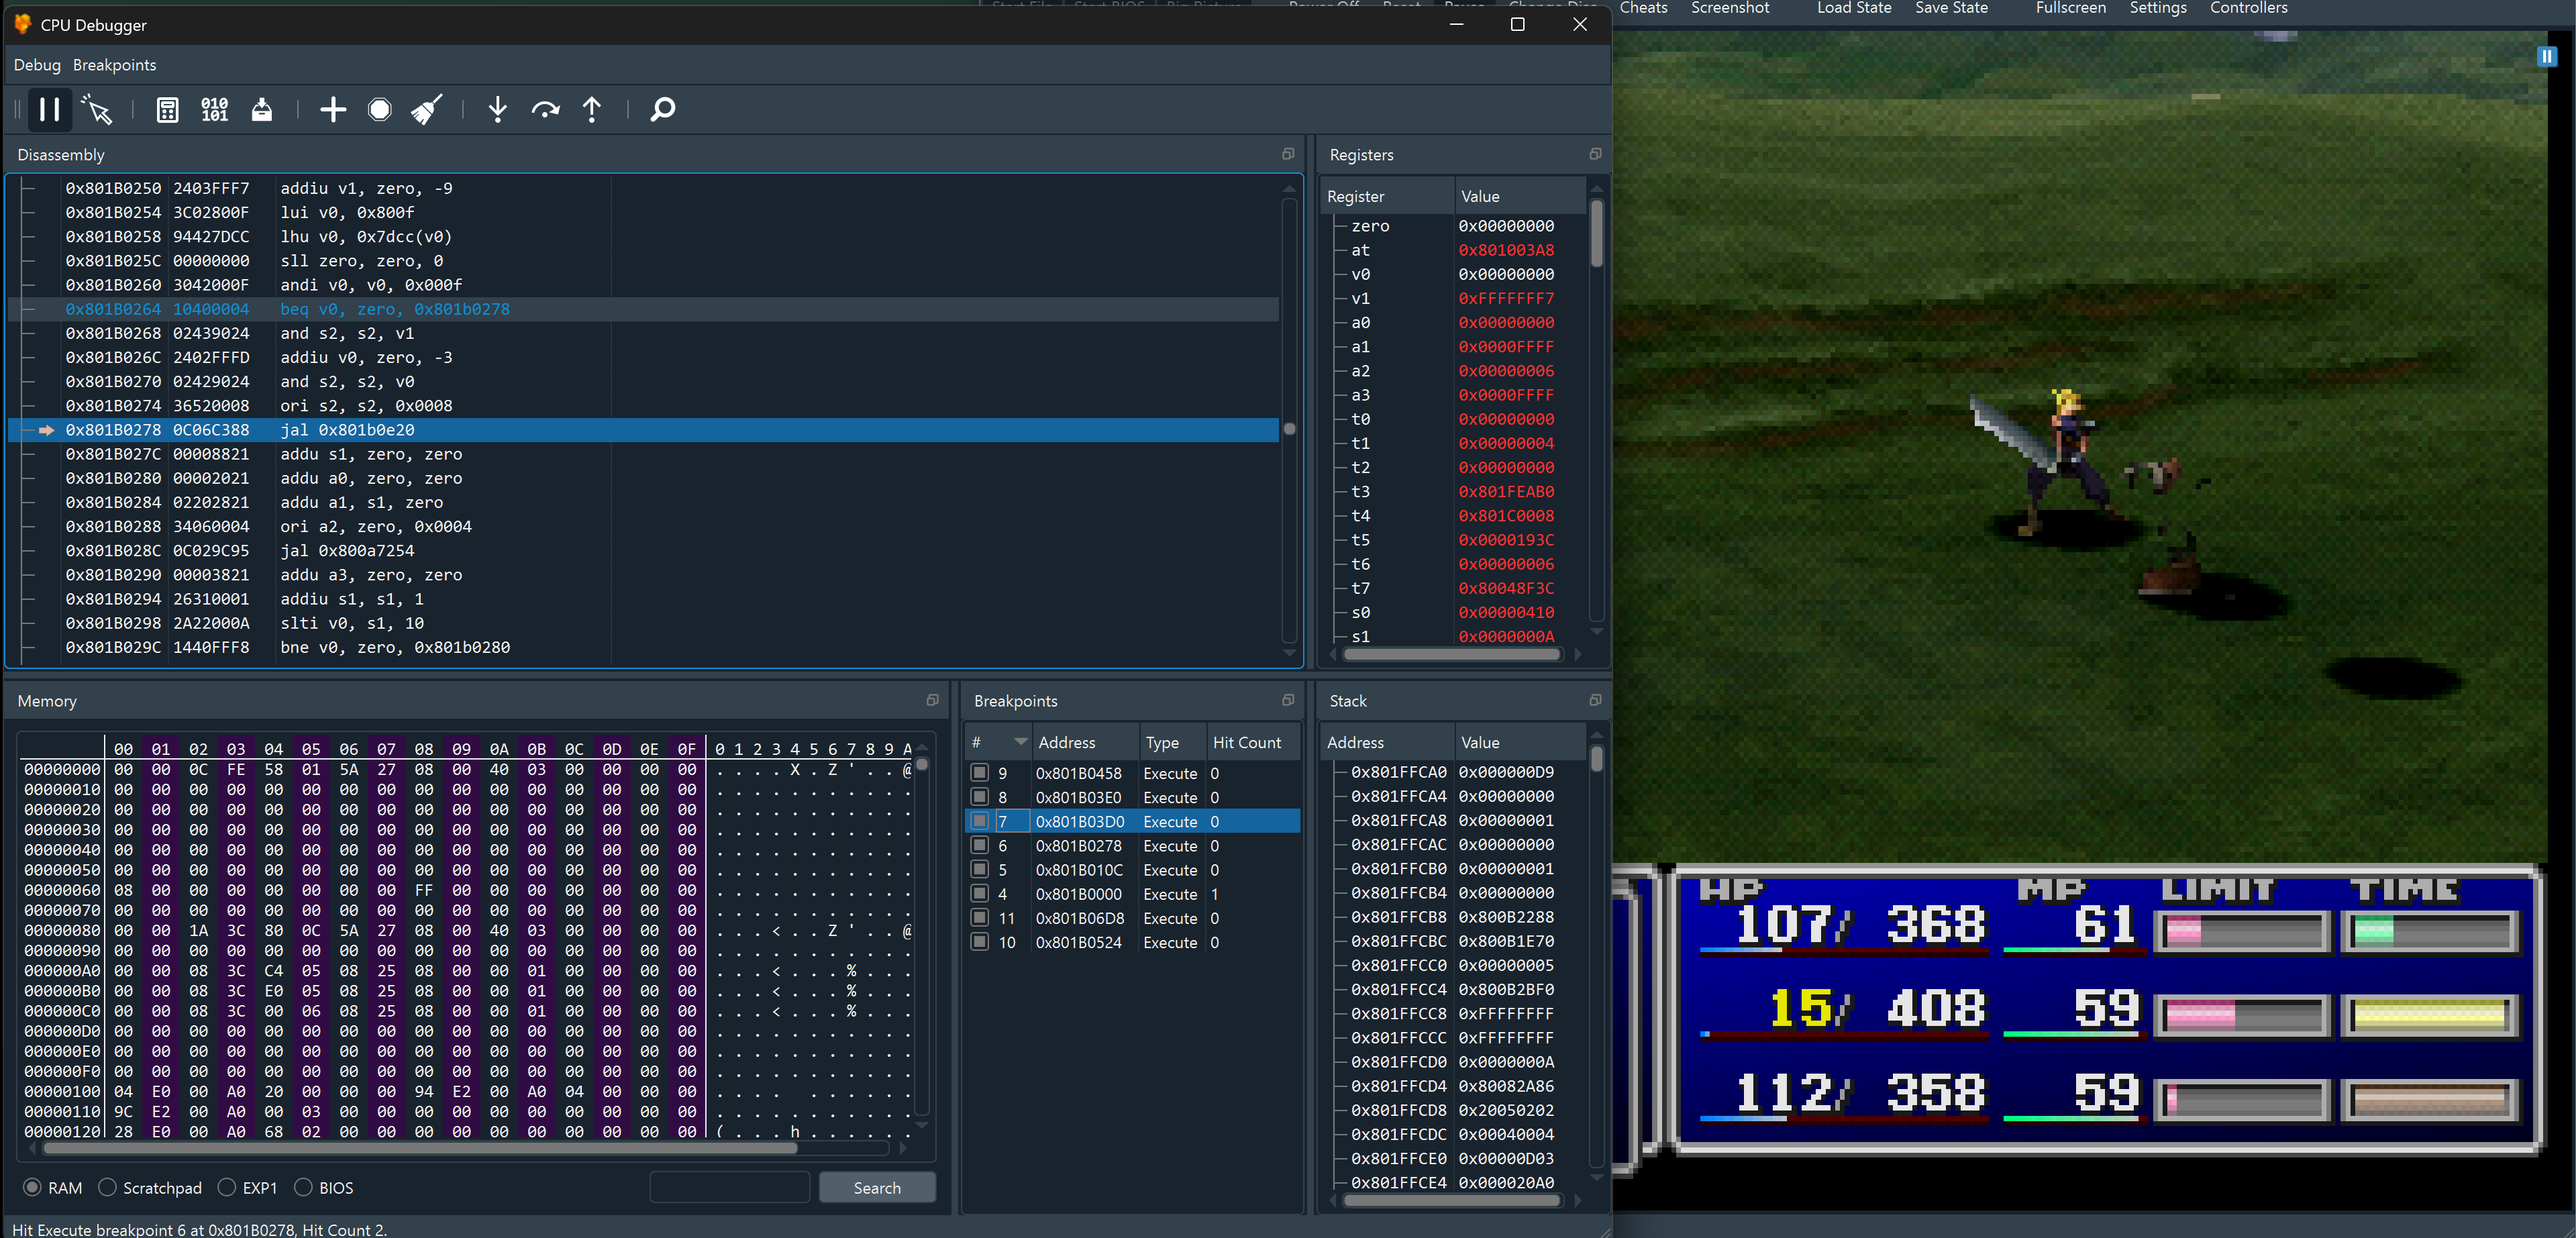
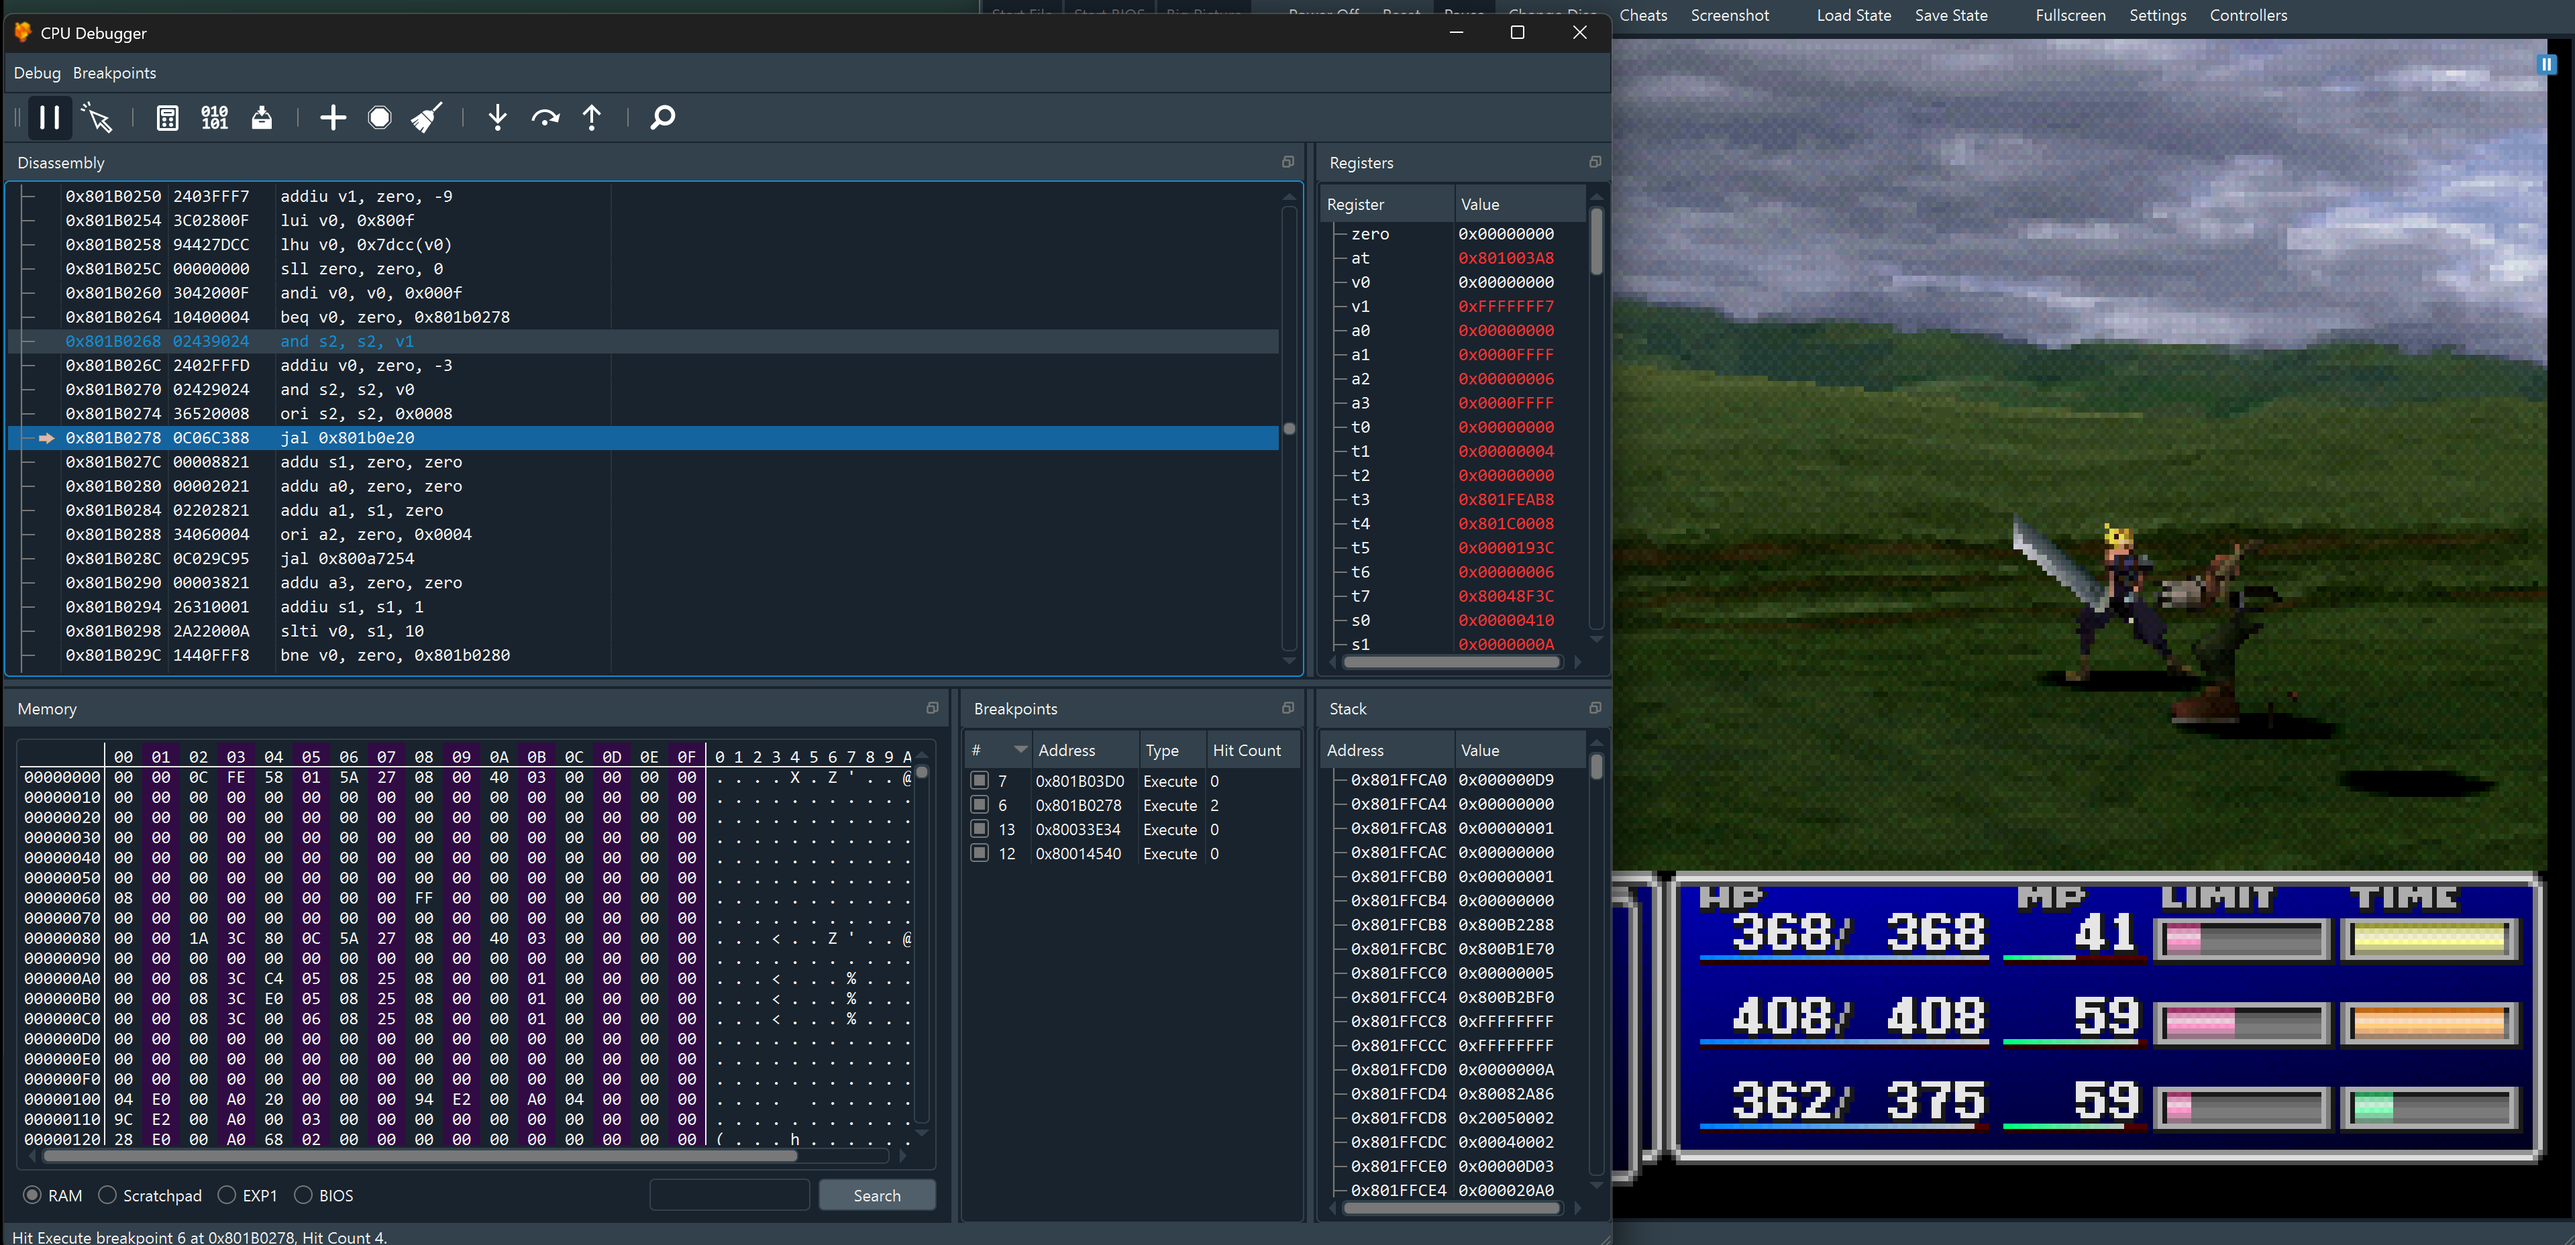
updates

Changed region(s): [[0.0, 0.0, 1.0, 1.0], [0.9922, 0.9886, 1.0, 1.0], [0.3101, 0.7724, 0.3411, 0.8033]]

diff --git a/docs/INSTRUCTIONS.md b/docs/INSTRUCTIONS.md
@@ -123,3 +123,11 @@ git push
 Then say **check**.
 
 Do **not** commit .bin images.
+
+order of hits
+80033E34
+801B0278
+80033E34
+80014540 (mid fanfair)
+80033E34 (mid fanfar)
+80033E34 (on world map loading)
